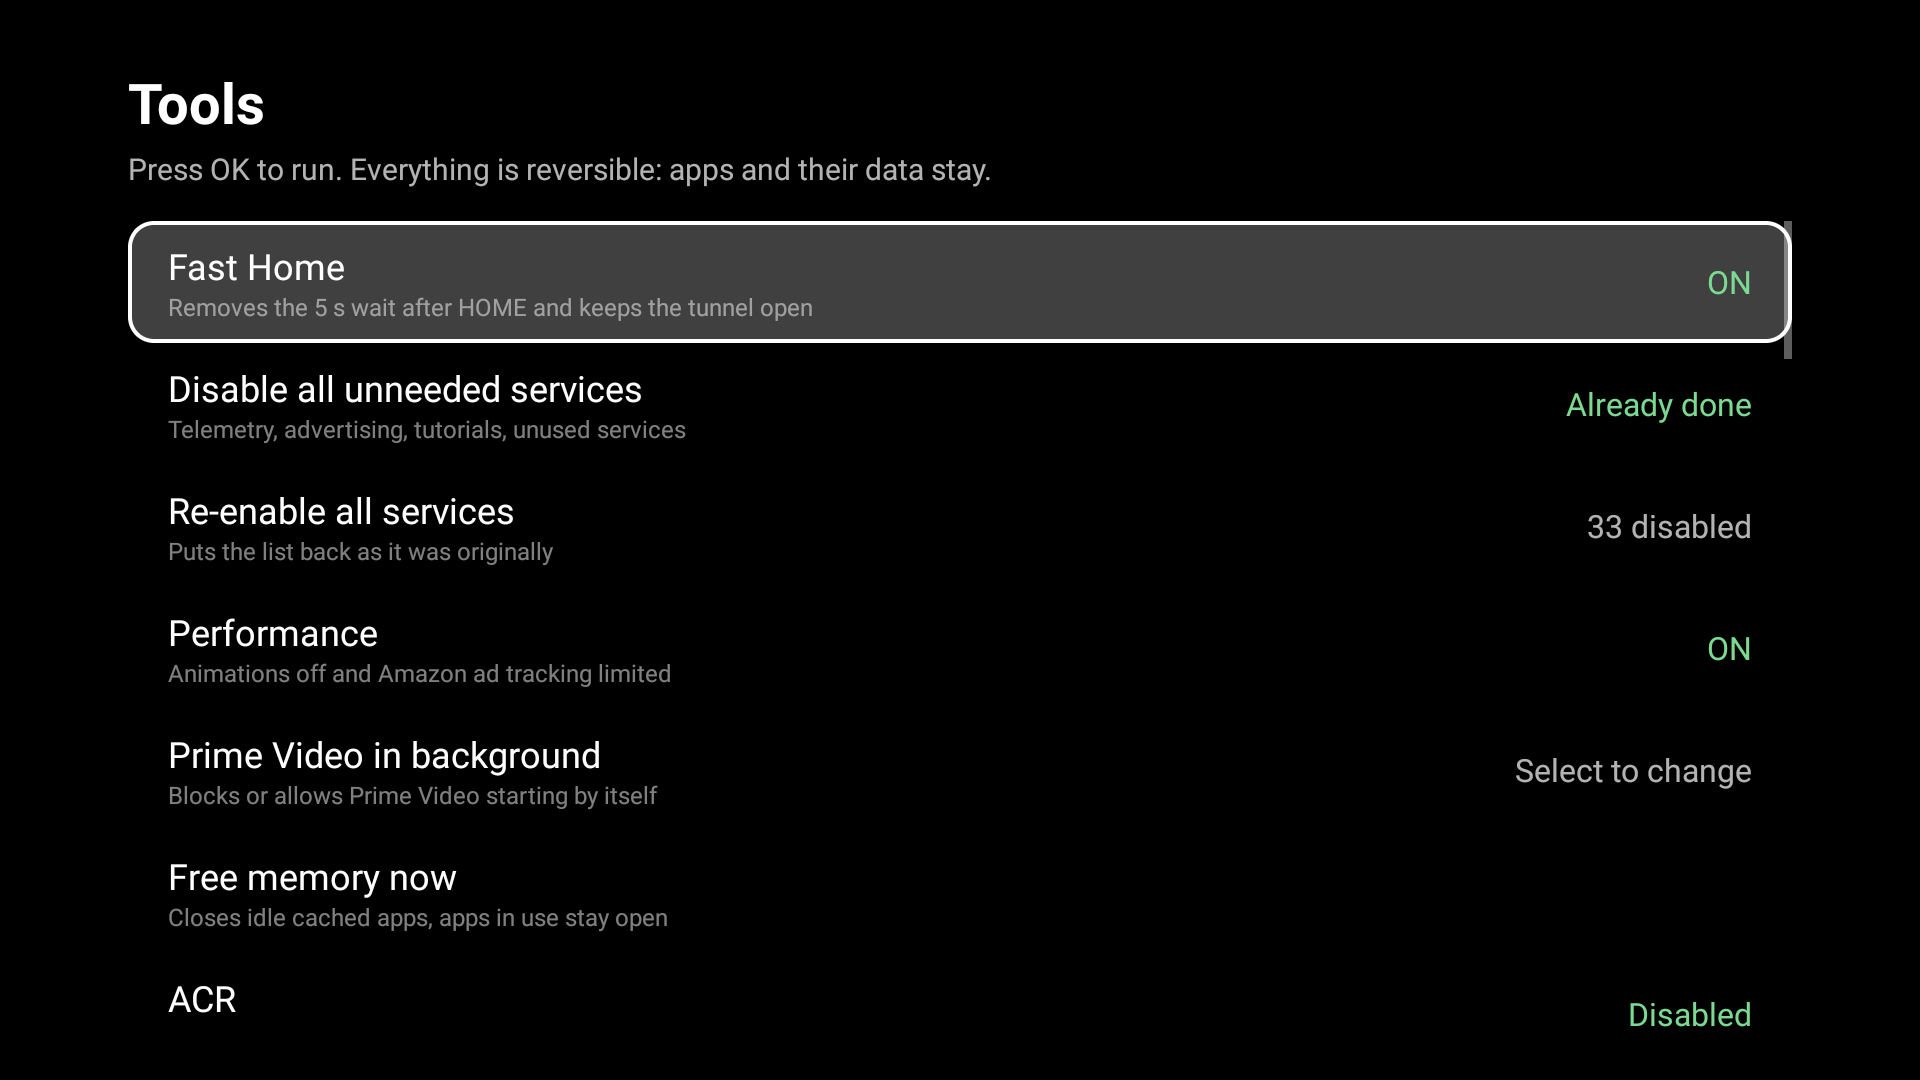
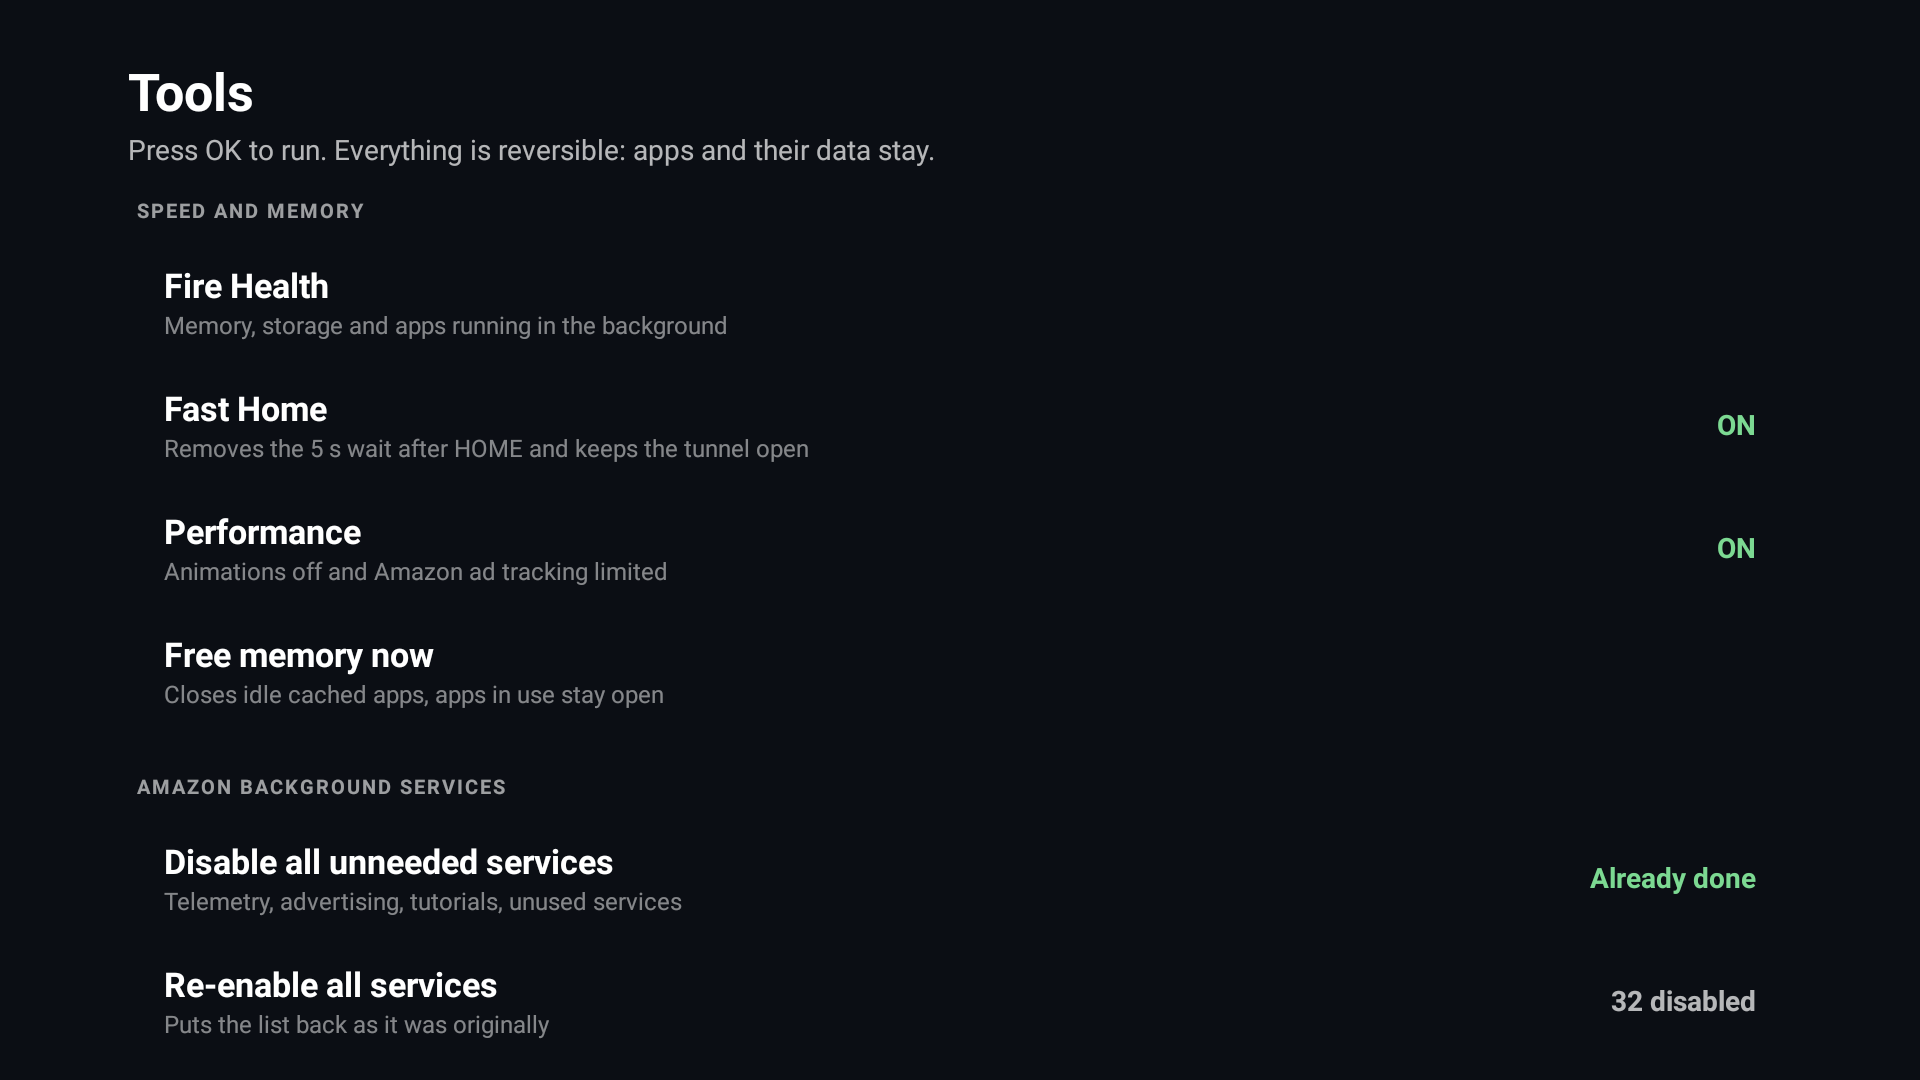
Update README and screenshots for 0.3.0 (Library, Fire Health, updates)

diff --git a/README.md b/README.md
@@ -10,14 +10,20 @@ A fast, glass-style Home screen for Amazon Fire TV. It replaces the ad-heavy Ama
 
 ## What you get
 
-- **A clean Home.** Frosted-glass top bar, a card for the last app you opened, your apps, a "continue watching" row and a full library. No ads, no promoted content.
+- **A clean Home.** Frosted-glass top bar, a card for the last app you opened, your apps, a "continue watching" row and a full library. No ads, no promoted content. Every app card is filled with the app's own banner or icon.
 - **It really replaces Home.** Pressing the Home button on the remote shows this launcher, even though Fire OS pins Amazon's.
 - **A Store tab.** The **Store** tab in the top bar opens the Amazon Appstore that is already on the Fire TV, so you can get new apps without leaving the launcher.
+- **A real Library.** Hold OK on an app to put it in a folder (Streaming, Games, Music, Tools, Kids or one you name) or to uninstall it. System apps are never removed.
 - **Fast.** Fire OS normally delays app launches for 5 seconds after Home. Fast Home removes that wait, so Home appears in about 1.2 s.
 - **Status at a glance.** Wi-Fi latency, Bluetooth, clock and weather ([Open-Meteo](https://open-meteo.com)).
 - **A Tools menu** to switch off Amazon telemetry and background services in bulk, stop Prime Video from starting by itself, free memory and set a performance preset. Everything is reversible.
-- **Fire Health.** The memory chip in the top bar opens a dashboard with free RAM, storage and uptime, a list of the apps that stay alive in the background (close them, or block them from starting by themselves) and an Auto-clean switch that frees idle memory on standby and when RAM runs low.
+- **Fire Health.** The memory chip in the top bar opens a dashboard with free RAM, storage and uptime, the apps that stay alive in the background (close them, or block them from starting by themselves) and an Auto-clean switch that frees idle memory on standby and when RAM runs low. The launcher, the Appstore, profiles, settings, Alexa and Android itself are never listed, so they cannot be blocked by mistake.
+- **Automatic updates.** The launcher checks the latest GitHub Release and installs a newer APK in seconds, after you press OK on a small card in the bottom right corner. Playback is paused and resumes at the same point.
 - **Light on memory.** Plain Android views, no heavy frameworks, no analytics, no resident helper process.
+
+![Library](docs/screenshots/library.png)
+
+![Fire Health](docs/screenshots/health.png)
 
 ![Tools menu](docs/screenshots/tools.png)
 
@@ -115,6 +121,8 @@ Press **Home** on the remote. The first time can take a few seconds while the se
 | App info | **i** button on the hero card |
 | All apps | **All apps**, or the Library tab |
 | Get new apps | **Store** tab (opens the Amazon Appstore) |
+| Folder, uninstall or app info | Hold OK on an app in the Library |
+| Memory, storage, background apps | Memory chip in the top bar (Fire Health) |
 | Tools menu | Long-press OK on the settings icon in the top bar |
 | Amazon settings | Short press OK on the settings icon |
 
@@ -130,7 +138,7 @@ Switch the row off at any time to close the session and the tunnel.
 
 ### Set up on first launch
 
-The first time the launcher opens, it turns on **Fast Home**, **Performance** and **Disable all unneeded services** by itself, so you do not have to open the Tools menu. The only thing you do is choose **Always allow** when the Stick asks about USB debugging. It only happens once: if you switch one of them off later, it stays off. Every setting can be undone from the Tools menu.
+The first time the launcher opens, it turns on **Fast Home**, **Performance** and **Disable all unneeded services** by itself, so you do not have to open the Tools menu. It also stops Prime Video from running in the background (it slows a small Fire TV down) and stops every non-essential app that has an icon (streaming apps, Silk, Kids and so on) from starting or staying alive by itself. Those apps still open normally when you choose them. The launcher, the Appstore, profiles, settings, Alexa voice and Android itself are never touched. The only thing you do is choose **Always allow** when the Stick asks about USB debugging. It only happens once: if you switch one of them off later, it stays off. Every setting can be undone from the Tools menu or from Fire Health.
 
 ### Tools menu
 
@@ -153,7 +161,7 @@ Services are turned off with `pm disable-user`: the APK and its data stay on the
 
 ## Update
 
-Download the new APK from the [releases page](https://github.com/CrackedNamless/CrackedNamless-FireOS/releases) and run:
+The launcher updates itself: it checks the latest release every few hours, downloads a newer APK and shows a small card in the bottom right corner. Press OK to install it (only the launcher restarts) or Back to postpone. By hand, download the new APK from the [releases page](https://github.com/CrackedNamless/CrackedNamless-FireOS/releases) and run:
 
 ```bash
 adb install -r CrackedNamless-FireOS.apk
